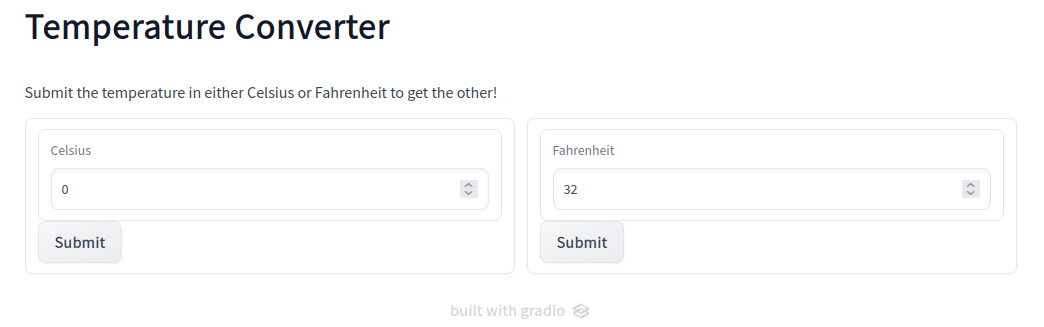
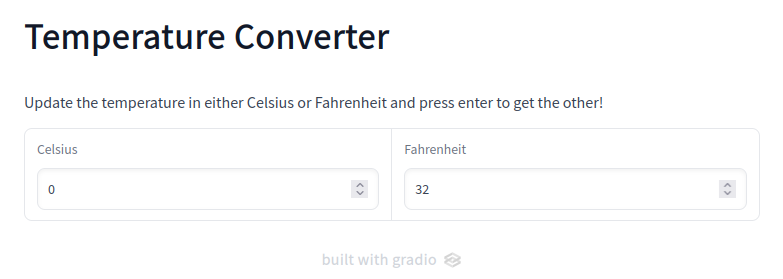
Submit-based. (#1)

diff --git a/2_Temperature_Converter/app.py b/2_Temperature_Converter/app.py
@@ -3,21 +3,16 @@ import gradio as gr
 with gr.Blocks() as demo:
     gr.Markdown(
         """# Temperature Converter
-        Submit the temperature in either Celsius or Fahrenheit to get the other!
+        Update the temperature in either Celsius or Fahrenheit and press enter to get the other!
         """
     )
 
     with gr.Row():
-        with gr.Box():
-            celsius = gr.Number(0, label="Celsius")
-            c2f = gr.Button("Submit")
+        celsius = gr.Number(0, label="Celsius")
+        fahrenheit = gr.Number(32, label="Fahrenheit")
 
-        with gr.Box():
-            fahrenheit = gr.Number(32, label="Fahrenheit")
-            f2c = gr.Button("Submit")
-
-    c2f.click(lambda c: c * 9 / 5 + 32, celsius, fahrenheit)
-    f2c.click(lambda f: (f - 32) * 5 / 9, fahrenheit, celsius)
+        celsius.submit(lambda c: c * 9 / 5 + 32, celsius, fahrenheit)
+        fahrenheit.submit(lambda f: (f - 32) * 5 / 9, fahrenheit, celsius)
 
 if __name__ == "__main__":
     demo.launch()
